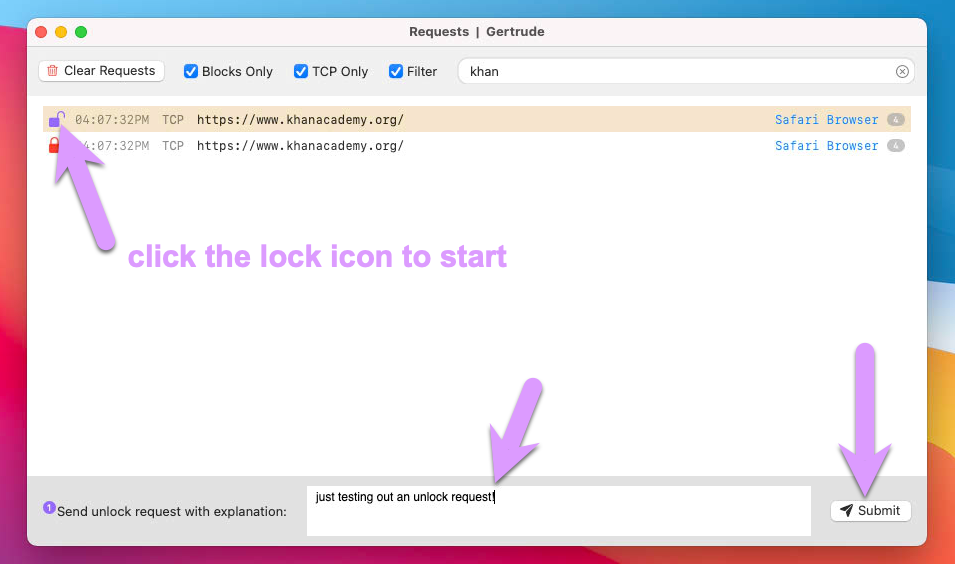
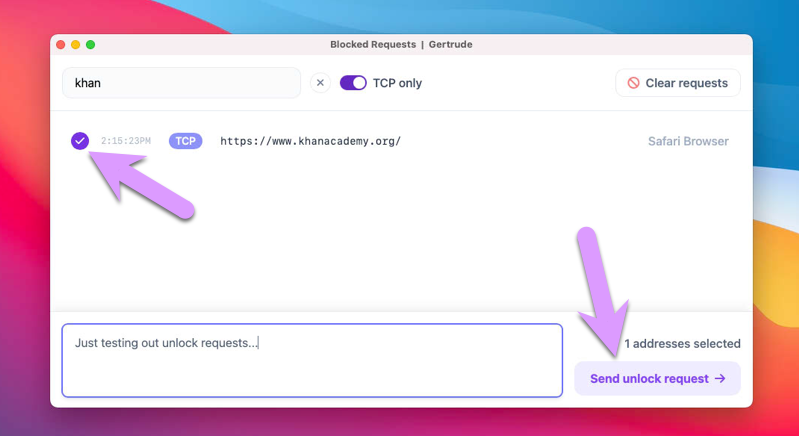
site: update all doc screenshots for 2.x app

diff --git a/site/components/src/PeaceOfMindBlock.tsx b/site/components/src/PeaceOfMindBlock.tsx
@@ -45,10 +45,10 @@ const PeaceOfMindBlock: React.FC = () => {
               onClick={() => setShowingVideo(true)}
               className="font-extrabold text-xl bg-white px-8 py-3 rounded-xl shadow-xl mt-3 hover:from-violet-600 hover:to-fuchsia-600 inline-flex items-center hover:bg-violet-50 transition-[background-color] duration-100 border-[0.5px] border-slate-200"
             >
-              <h2 className="bg-gradient-to-br from-indigo-500 flex items-center to-fuchsia-500 bg-clip-text text-transparent">
+              <span className="bg-gradient-to-br from-indigo-500 flex items-center to-fuchsia-500 bg-clip-text text-transparent">
                 <i aria-hidden className="fa-brands fa-youtube mr-3" />
                 <span className="whitespace-nowrap inline-flex">Video intro</span>
-              </h2>
+              </span>
             </button>
           </div>
         </div>

diff --git a/dash/components/src/Users/ConnectDeviceModal.tsx b/dash/components/src/Users/ConnectDeviceModal.tsx
@@ -23,7 +23,7 @@ const ConnectModal: React.FC<Props> = ({ dismissAddDevice, request }) => (
           {payload.code}
         </code>
         <div>
-          The device will show up in the list <em>once it has connected.</em>
+          The computer will show up in the list <em>once it has connected.</em>
         </div>
       </div>
     )}

diff --git a/site/app/pages/docs/getting-started.md b/site/app/pages/docs/getting-started.md
@@ -18,8 +18,8 @@ getting started with Gertrude, [click here](https://www.youtube.com/watch?v=N8kL
 
 To start out, if you haven't already created a **Gertrude account** you'll need to do that
 first. To create an account [click this link](https://parents.gertrude.app/signup) and
-follow the sign-up instructions. The first 60 days are _totally free and you can cancel at
-any time._
+follow the sign-up instructions. No credit card is required, the first 60 days are
+_totally free, and you can cancel at any time._
 
 ### Adding your first child
 
@@ -47,24 +47,113 @@ child.
 
 Enter the child's _name_, and click to save the new child.
 
-{% image src="edit-user.png" caption="Enter your child's name, and click 'save'" /%}
+{% image src="add-child.png" caption="Enter your child's name, and click 'save'" /%}
 
-### Monitoring child activity
+### Mac App Connection Code
 
-While you are adding your first child, you can also set up **monitoring** if you wish.
-Gertrude allows you to see everything _your children have typed_ and also can _take
-periodic screenshots of your child's screens_ for you to review later. You can always
-change these settings later, but we recommend enabling them for the greatest safety, and
-also because it will help you learn about all of Gertrude's features as you work through
-this tutorial.
+To finish setting up your first child, we'll need to install the Gertrude Mac app on their
+computer. But before we do that, you'll grab a one-time connection code to connect the app
+to the child you just added. To do so, click the **Add a computer"** button on the edit
+child screen. You'll see a pop-up giving you a special one-time connection code. Write
+this code down somewhere; you'll be using it shortly.
+
+{% image src="get-connection-code.png" caption="Click <b>Get connection code</b>" /%}
+{% image src="got-connection-code.png" caption="Then copy down the code" /%}
+
+## Connecting a computer
+
+For the next part of the process you'll need to switch over to the computer that will be
+used by the child you're protecting. You might already be using that computer. But if
+you're a parent working through this tutorial on your own computer and your child uses a
+_different computer_ you'll need that computer in front of you to do the next few steps of
+initial setup.
+
+{% callout title="About shared computers" %}
+
+If you and your child **share the same computer** you might already be using that computer
+right now. If that's the case, you can either log into the parents site **on your phone**
+and finish this tutorial logged into this computer as your child; _or_ finish the setup by
+switching back and forth between the Mac users on the shared computer. For safety, you
+will need to make sure you have _separate macOS **users**_&mdash;one for you, and one for
+your child.
+
+{% /callout %}
+
+### Downloading the Gertrude macOS app
+
+On the computer that will be protected, login to the macOS user that you desire to
+protect, then open a web browser, visit the Gertrude website
+[download page](https://gertrude.app/download), and click the download link to download a
+copy of the most recent version of the Gertrude macOS app. Double-click on the downloaded
+file and then drag the Gertrude application into the applications folder.
+
+{% image src="dmg.png" caption="Drag the Gertrude app into Applications" /%}
+
+Next, **double-click** on the Gertrude application icon in the applications folder to
+launch it for the first time. Once Gertrude is launched, the only visible difference
+you'll see is that _there will be a new icon in your menu bar,_ as shown below:
+
+{% image src="menu-bar-icon.png" caption="The Gertrude app menu bar icon in the upper right corner" /%}
+
+The first time you click this icon, Gertrude will prompt you to enter a **connection
+code.** Enter the connection code that you wrote down earlier. When you submit the code
+you should receive a confirmation that the Gertrude Mac app is successfully connected.
+
+{% image src="connect-to-user.png" caption="Click <b>Connect to child</b>" /%}
+{% image src="enter-connection-code.png" caption="And enter the connection code you got from the parents websitk" /%}
+
+### Enabling the internet filter
+
+The next thing you need to do is to **turn on Gertrude's internet filter.** Getting the
+filter fully activated takes a couple of steps, because the _operating system wants to
+make very clear to you that Gertrude has your permission to filter all the internet
+traffic on this computer._ To begin the process of starting the filter, click the Gertrude
+icon again and then click the **"Turn on"** button as shown below:
+
+{% image src="enable-filter.png" caption="Click 'Turn on' to begin the process of enabling the filter" /%}
+
+At this point, the macOS operating system _will block Gertrude from installing a system
+extension._ Click the button labeled **"Open Security Preferences"**, or manually open up
+the System Preferences app, and choose _"Security & Privacy" > "General"._
+
+{% image src="system-extension-blocked.png" caption="Click 'Open Security Preferences'" /%}
+
+From the _"Security & Privacy" > "General"._ screen, click the _unlock_ icon to authorize,
+and then choose to **allow** the system extension from Gertrude.
+
+{% image src="security-allowance.png" caption="Allow Gertrude to install a system extension" /%}
+
+As a final step, you should now see a prompt asking you if Gertrude can filter network
+activity.
+
+{% image src="allow-filtering.png" caption="Allow Gertrude to filter network content" /%}
+
+**Congratulations!** Those steps are out of the way, and Gertrude has installed it's
+network filter. You won't have to repeat those steps again. If you click the Gertrude menu
+bar icon now, you should see that **the filter is enabled.**
+
+{% image src="filter-enabled.png" caption="The filter is now enabled" /%}
+
+## Monitoring child activity
+
+Now that you've got the Mac app installed on your child's computer, if you go back to the
+parents website and click to edit your child, you'll some new options have appeared:
 
 {% image src="monitoring-options.png" caption="monitoring options" /%}
+
+Now might be a good time set up **monitoring** if you wish. Gertrude allows you to see
+everything _your children have typed_ and also can _take periodic screenshots of your
+child's screens_ for you to review later. You can always change these settings later, but
+we recommend enabling them for the greatest safety, and also because it will help you
+learn about all of Gertrude's features as you work through this tutorial.
+
+{% image src="monitoring-enabled.png" caption="Enable monitoring, at least as while working through this tutorial" /%}
 
 ## Keychains & Keys
 
 ### Keychains
 
-Near the bottom of the screen is a section that allows you to attach what we call
+Near the bottom of the same screen is a section that allows you to attach what we call
 **"keychains"** to your child. One of the main features of Gertrude is that it acts as an
 **internet filter** for your child's Mac computers. Gertrude's filter blocks the _entire
 internet_, only allowing access to the sites and apps you specifically designate as safe.
@@ -140,80 +229,6 @@ earlier, and then click to add a keychain. Select the keychain you just created 
 name and save the child.
 
 {% image src="attach-keychain.png" caption="On the 'Edit child' screen, add the keychain" /%}
-
-## Connecting a computer
-
-The final step you will need to take before installing the macOS app is _getting a code_
-to connect this child to a Mac computer running Gertrude. To do so, click the **Add a
-computer"** button on the edit child screen. You'll see a pop-up giving you a special
-one-time connection code. Write this code down somewhere; you'll be using it shortly.
-
-{% image src="add-device.png" caption="Click to add a device, and copy the connection code" /%}
-
-For the next part of the process you'll need to switch over to the computer that will be
-used by the child you're protecting. You might already be using that computer. But if
-you're a parent working through this tutorial on your own computer and your child uses a
-_different computer_ you'll need that computer in front of you to do the next few steps of
-initial setup.
-
-{% callout title="About shared computers" %}
-
-If you and your child **share the same computer** you'll be staying on the same device for
-the rest of this tutorial. You will however need to make sure you have _separate macOS
-**users**_&mdash;one for you, and one for your child.
-
-{% /callout %}
-
-### Downloading the Gertrude macOS app
-
-On the computer that will be protected, login to the macOS user that you desire to
-protect, then open a web browser, visit the Gertrude website
-[download page](https://gertrude.app/download), and click the download link to download a
-copy of the most recent version of the Gertrude macOS app. Double-click on the downloaded
-file and then drag the Gertrude application into the applications folder.
-
-{% image src="dmg.png" caption="Drag the Gertrude app into Applications" /%}
-
-Next, **double-click** on the Gertrude application icon in the applications folder to
-launch it for the first time. Once Gertrude is launched, the only visible difference
-you'll see is that _there will be a new icon in your menu bar,_ as shown below:
-
-{% image src="menu-bar-icon.png" caption="The Gertrude app menu bar icon in the upper right corner" /%}
-
-The first time you click this icon, Gertrude will prompt you to enter a **connection
-code.** Enter the connection code that you wrote down earlier. When you submit the code
-you should receive a confirmation that the Gertrude Mac app is successfully connected.
-
-{% image src="connect-to-user.png" caption="Click to connect, and enter your connection code" /%}
-
-### Enabling the internet filter
-
-The next thing you need to do is to **turn on Gertrude's internet filter.** Getting the
-filter fully activated takes a couple of steps, because the _operating system wants to
-make very clear to you that Gertrude has your permission to filter all the internet
-traffic on this computer._ To begin the process of starting the filter, click the Gertrude
-icon again and then click the **"Turn on"** button as shown below:
-
-{% image src="enable-filter.png" caption="Click 'Turn on' to begin the process of enabling the filter" /%}
-
-At this point, the macOS operating system _will block Gertrude from installing a system
-extension._ Click the button labeled **"Open Security Preferences"**, or manually open up
-the System Preferences app, and choose _"Security & Privacy" > "General"._
-
-{% image src="system-extension-blocked.png" caption="Click 'Open Security Preferences'" /%}
-
-From the _"Security & Privacy" > "General"._ screen, click the _unlock_ icon to authorize,
-and then choose to **allow** the system extension from Gertrude.
-
-{% image src="security-allowance.png" caption="Allow Gertrude to install a system extension" /%}
-
-As a final step, you should now see a prompt asking you if Gertrude can filter network
-activity.
-
-{% image src="allow-filtering.png" caption="Allow Gertrude to filter network content" /%}
-
-**Congratulations!** Those steps are out of the way, and Gertrude has installed it's
-network filter. You won't have to repeat those steps again.
 
 ## Exploring the Gertrude app
 
@@ -330,23 +345,14 @@ and free learning platform, which we use in the screenshots below.
 {% /callout %}
 
 Click the Gertrude app icon in the menu bar and select the item entitled **View network
-traffic.**
+requests.**
 
-{% image src="view-network-traffic.png" caption="Click the 'View network traffic...' option" /%}
+{% image src="view-network-traffic.png" caption="Click the 'View network requests...' option" /%}
 
-This brings up _a window which shows you a live display of all the requests that the
+This brings up _a window whjch shows you a live display of all the requests that the
 Gertrude filter is handling and blocking._
 
-{% image src="network-requests-window.png" caption="The network traffic window" /%}
-
-{% callout type="warning" title="Where's the window?" %}
-
-Sometimes the windows that are opened by the Gertrude app can be hard to find. They
-sometimes appear **behind other windows** or _don't jump to the top of the screen_ like
-you would expect. So sometimes you need to hunt around just a little bit to find the
-window.
-
-{% /callout %}
+{% image src="network-requests-window.png" caption="The network requests window" /%}
 
 With the network requests Gertrude window open, **refresh the blocked page** in your web
 browser. You _should see one or more new blocked requests_ flowing in to the Gertrude
@@ -362,7 +368,7 @@ create new keys for your children._
 ### The unlock request flow
 
 1. A child tries to access a website on the internet, and are _blocked._
-2. They open the network traffic window, and _find the request that was blocked._
+2. They open the network requests window, and _find the request that was blocked._
 3. They then send an _unlock request_ to you requesting that that website be unlocked.
 4. Then you have the opportunity to _review and approve or reject_ that request. You
    approve the unlock request by _creating a key_ that unblocks that web address.
@@ -384,7 +390,7 @@ are filtering for blocks containing `khan`. You should see something like this:
 To _submit an unlock request_ for the block, **click the small unlock icon**, optionally
 add a comment, and then **click submit**.
 
-{% image src="create-unlock-request.png" caption="Click the unlock icon, then submit." /%}
+{% image src="create-unlock-request.png" caption="Click the blocked request, then send." /%}
 
 ### Accepting an unlock request
 
@@ -456,7 +462,7 @@ The child is shown a form where they can fill out the _length of time_ they wish
 the filter suspended, and optionally a _comment explaining why_ the filter suspension is
 being requested.
 
-{% image src="request-filter-suspension.png" caption="The child writes a comment and picks a duration" /%}
+{% image src="request-filter-suspension.png" caption="The child picks a duration, and can add a comment" /%}
 
 Once submitted (provided you've configured a notification in your
 [settings](https://parents.gertrude.app/settings) screen), you'll receive an email, text
@@ -499,26 +505,3 @@ reviewing. The _knowledge that they are being watched_ is one of the key compone
 what makes your children safe.
 
 {% /callout %}
-
-## App Administrative Actions
-
-Gertrude is built so that after the initial setup, you can _manage your children from any
-computer, phone or device_ where you have access to the internet. However, sometimes it is
-convenient to do _some basic administrative tasks_ directly on the your child's computer.
-For this reason the Gertrude app has some special protected admin-only options that you as
-the account owner can access and make use of when you wish. To access this screen, click
-the Gertrude app icon in the menu bar, then select _"Administrate..."_ and supply your
-admin username and password.
-
-{% image src="administrate.png" caption="Click for admin-only options on your child's computer" /%}
-
-On the left-hand side click the **actions** navigation item.
-
-{% image src="admin-actions.png" caption="Click for admin-only options on your child's computer" /%}
-
-From this screen you may perform a number of _admin-only_ actions, including:
-
-- checking for Gertrude _app updates_
-- reconnecting to a different child
-- manually \_stopping, the filter
-- _quitting_ the app

diff --git a/site/app/pages/docs/troubleshooting.md b/site/app/pages/docs/troubleshooting.md
@@ -41,7 +41,7 @@ something you think should be unblocked is not,_ try these tips:
   you're using are helpful. Click the _clear requests_ button and then refresh the page,
   or retry the activity that is not working.
 
-{% image src="isolating-requests.png" caption="Filter by a search phrase, and clear often" /%}
+{% image src="filter-requests.png" caption="Filter by a search phrase, and clear often" /%}
 
 - **Send debug data, and a support request.** If all else fails, open the _Actions_ screen
   of the Administrate screen, and click _"Send debug data"_. Then, try again. Extra debug

diff --git a/site/app/pages/docs/unblocking-guide.md b/site/app/pages/docs/unblocking-guide.md
@@ -129,4 +129,4 @@ easier to find what to unblock is **isolate network activity:**
   you're using are helpful. Click the _clear requests_ button and then refresh the page,
   or retry the activity that is not working.
 
-{% image src="isolating-requests.png" caption="Filter by a search phrase, and clear often" /%}
+{% image src="filter-requests.png" caption="Filter by a search phrase, and clear often" /%}
